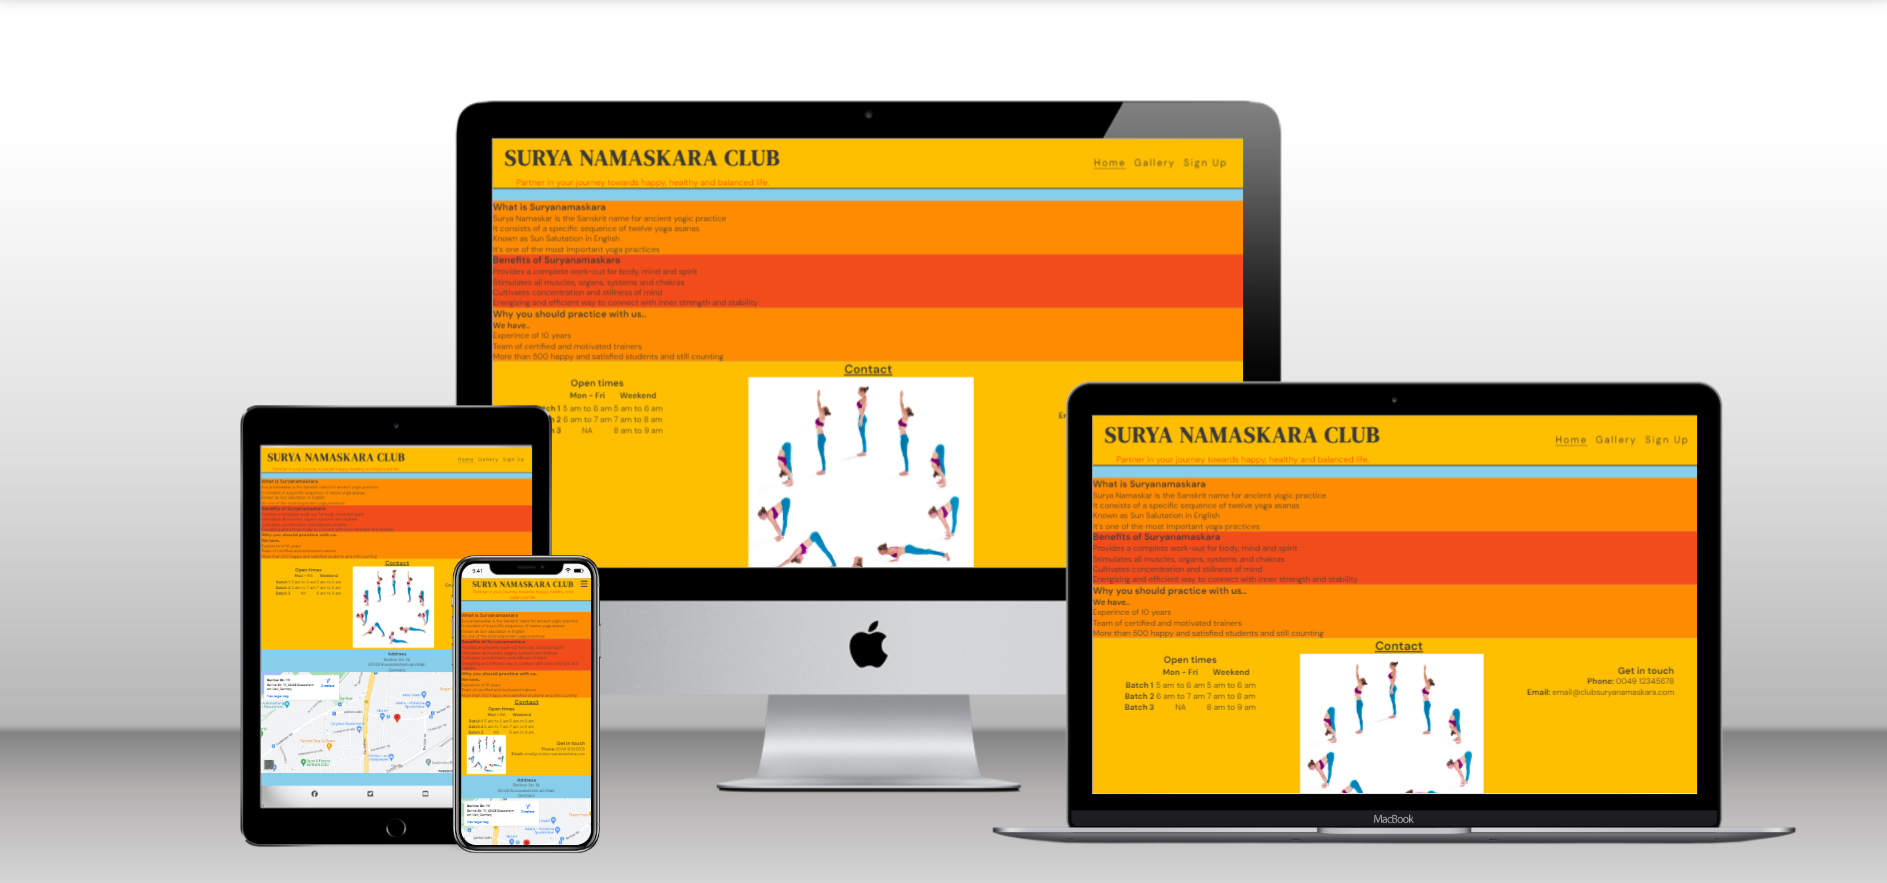
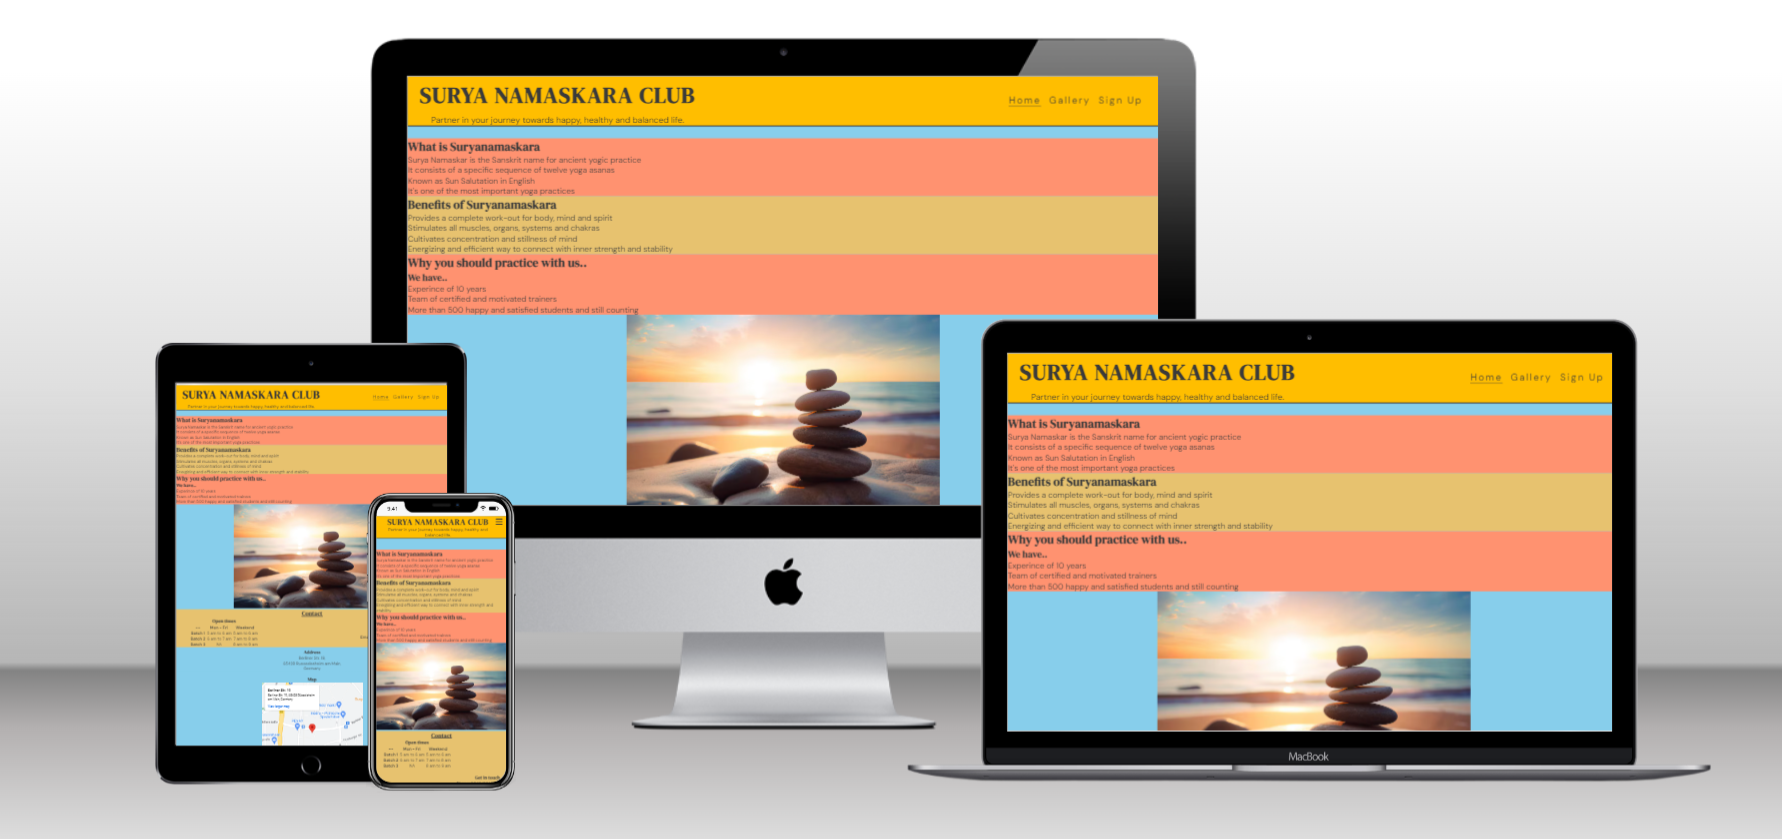
update readme.md

diff --git a/README.md b/README.md
@@ -22,12 +22,12 @@ There is also a quick sign up form, so if the users of the website find it inter
 
 * The Home page
 
-    - This is the opening page, with top section giving information about suryanamaskara. SO the user will get to know what does the name Suryanamaskara means. 
+    - This is the opening page, with top section giving information about suryanamaskara. So the user will get to know what does the name Suryanamaskara means. 
     - Below that user can read benefits of suryanamaskara and why one should join this particular group. This aspires to motivate the user to join the group as a step towards a happy, healthy and balanced life.
     - Next comes contact section, displaying timing and days of the ongoing batches, phone number and the email id, where they could contact to collect more information.
-    - A picture showing sequence of 12 asanas is displayed, which are performed as a part of one surynamaskara. 
+    - A picture showing balancing stones at the beach, taken at the time of a calm sunrise. As suryanamaskara is mostly performed at the time of sunrise, this picture represents the calmness and balance one will experince after performing suryanamaskara..
 
-        ![Screenshot of a picture showing sequence of 12 asanas](/assets/images/sequence-of-asanas.png)
+        ![Screenshot of a picture showing stones balanced on eachother](/assets/images/stones-balance-beach-sunrise-meditation.avif)
 
     - In the next section address of the club is displayed and a map showing exact location of the club.
 
@@ -39,12 +39,13 @@ There is also a quick sign up form, so if the users of the website find it inter
 ![Screenshot of the Footer with social media links](/assets/images/footer.png)
 
 * The Gallery page
-    -   On the Gallery page user can view some photos of a group performaing suryanamaskara and other asanas(postures). The photos are taken inside the club, so that user will get idea about the interior of the club and what kind of activities are performed there.       
+    -   On the Gallery page user can view some photos of a group performaing suryanamaskara and other asanas(postures). The photos are taken inside the club, so that user will get idea about the interior of the club and what kind of activities are performed there. User can read name of the posture below the respective picture.      
         ![Screenshot 1 of a gallery showing different yoga poses](/assets/images/Yoga-poses1.png)
         ![Screenshot 2 of a gallery showing different yoga poses](/assets/images/Yoga-poses2.png)
 
 * The Sign Up page
-    -   Finally sign up page is there, where a contact form is provided. On the form user can provide their basic information like name, email address etc and could join the club on just click of a button.
+    -   Finally sign up page is there, where a contact form is provided. On the form user can provide their basic information like name, email address, age etc, and could join the club on just click of a button. One can also provide their preference in terms of days, like weekdays or weekend, when they could attend the practice.
+        ![Screenshot of a sign up form](/assets/images/signup-page.png)
 
 ### Features left to implement
     
